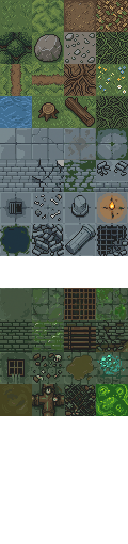
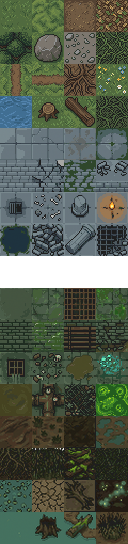
Add Swamp, a fourth map theme
New SwampTheme (owns rows 13-16 of map_tiles.png, the next free block
after Sewer's 9-12), added to dungeon_theme_pool() and ThemeChoice (the
Debug ThemeSelect menu).

Art assembled from two PixelLab generation batches rather than one clean
round: the first batch had a moss-less wall texture and a flat,
textureless water tile; a sharpened prompt fixed both but regressed two
different cells that weren't touched (dark soil came back ~90%
near-black, driftwood lost its shape entirely). Resolved as a hybrid -
14 of 16 cells from the second batch, 2 pulled from the first where they
were actually correct - rather than a third generation round. Same
near-black-pixel flooring (30/channel minimum) and grid-line-border
cropping every prior theme's art has needed. Full history in
docs/Map_Tile_Theme_Guide.md's own Swamp entry.

Not wired into the moat/obstacle placement system Forest and Sewer have
- that's its own scoped follow-up, not bundled into adding the theme.

Fixed two stale "three themes" references (title.rs's ThemeSelect
screen text, turn_state.rs's own doc comment) now that there are four
non-Random choices.

Verified with a throwaway test (valid tile variants, present in the
theme pool - removed after confirming) plus both headless
class-survivability simulations (consistent with every prior run - the
theme pool growing from 3 to 4 entries is cosmetic only).

Changed region(s): [[0.0, 0.75, 1.0, 1.0]]

diff --git a/ever_space_rrpg/src/map_builder/themes.rs b/ever_space_rrpg/src/map_builder/themes.rs
@@ -293,3 +293,64 @@ impl SewerTheme {
         Box::new(Self {})
     }
 }
+
+pub struct SwampTheme {}
+
+impl MapTheme for SwampTheme {
+    fn tile_to_render(&self, tile_type: TileType) -> FontCharType {
+        match tile_type {
+            TileType::Floor => to_cp437('~'),
+            TileType::Wall => to_cp437('&'),
+            TileType::Exit => to_cp437('>'),
+            TileType::Counter => to_cp437('▄'),
+            // Not placed by any map generator yet - see TileType::Water's
+            // own doc comment. Only reached if that ever changes before
+            // this theme has a real tile_row, or for a theme that never
+            // gets one.
+            TileType::Water => to_cp437('~'),
+        }
+    }
+
+    fn floor_color(&self) -> RGB {
+        // Murky olive-brown mud.
+        RGB::from_f32(0.18, 0.17, 0.12)
+    }
+
+    fn wall_color(&self) -> RGB {
+        // Dark tangled root brown.
+        RGB::from_f32(0.22, 0.18, 0.12)
+    }
+
+    fn battle_scenery(&self) -> BattleScenery {
+        BattleScenery::ScatteredTrees
+    }
+
+    /// Swamp is the fourth theme migrated to real tile art (2026-09-13) -
+    /// owns rows 13-16 of resources/map_tiles.png, the next free 4-row
+    /// block after Sewer's 9-12 (no forbidden-row gotcha to dodge here -
+    /// that was specifically row 8). See docs/Map_Tile_Theme_Guide.md
+    /// for the full row-by-row breakdown, including the two-batch
+    /// generation history (a hybrid of both - two cells pulled from the
+    /// first batch where the second batch regressed).
+    fn tile_row(&self) -> Option<u16> {
+        Some(13)
+    }
+
+    /// Cells 9-10 (Lily-pad covered patch, Cracked dry-mud patch) read as
+    /// spreadable ground cover - left on the default Patch. Cells 11-12
+    /// (Fallen dead tree/driftwood, Glowing marsh-gas/firefly patch) are
+    /// discrete point fixtures - Scatter, same reasoning as every other
+    /// theme's own themed-floor split.
+    fn floor_variant_style(&self, variant: u8) -> VariantStyle {
+        match variant {
+            6 | 7 => VariantStyle::Scatter,
+            _ => VariantStyle::Patch,
+        }
+    }
+}
+
+impl SwampTheme {
+    pub fn new() -> Box<dyn MapTheme> {
+        Box::new(Self {})
+    }
+}

diff --git a/ever_space_rrpg/src/map_builder/mod.rs b/ever_space_rrpg/src/map_builder/mod.rs
@@ -47,14 +47,16 @@ pub enum ThemeChoice {
     Forest,
     Dungeon,
     Sewer,
+    Swamp,
 }
 
 impl ThemeChoice {
-    pub const ALL: [ThemeChoice; 4] = [
+    pub const ALL: [ThemeChoice; 5] = [
         ThemeChoice::Random,
         ThemeChoice::Forest,
         ThemeChoice::Dungeon,
         ThemeChoice::Sewer,
+        ThemeChoice::Swamp,
     ];
 
     pub fn label(self) -> &'static str {
@@ -63,6 +65,7 @@ impl ThemeChoice {
             ThemeChoice::Forest => "Forest",
             ThemeChoice::Dungeon => "Dungeon",
             ThemeChoice::Sewer => "Sewer",
+            ThemeChoice::Swamp => "Swamp",
         }
     }
 
@@ -74,6 +77,7 @@ impl ThemeChoice {
             ThemeChoice::Forest => Some(ForestTheme::new()),
             ThemeChoice::Dungeon => Some(DungeonTheme::new()),
             ThemeChoice::Sewer => Some(SewerTheme::new()),
+            ThemeChoice::Swamp => Some(SwampTheme::new()),
         }
     }
 }
@@ -317,7 +321,12 @@ pub enum VariantStyle {
 /// Sewer became the third theme and hand-updating a hardcoded range for
 /// every new one stopped being worth it).
 fn dungeon_theme_pool() -> Vec<Box<dyn MapTheme>> {
-    vec![DungeonTheme::new(), ForestTheme::new(), SewerTheme::new()]
+    vec![
+        DungeonTheme::new(),
+        ForestTheme::new(),
+        SewerTheme::new(),
+        SwampTheme::new(),
+    ]
 }
 
 /// Columns on `resources/map_tiles.png` - every theme's 4-row block uses

diff --git a/ever_space_rrpg/src/turn_state.rs b/ever_space_rrpg/src/turn_state.rs
@@ -7,7 +7,7 @@ pub enum TurnState {
     AdventureSelect,
     ClassSelect,
     /// Debug-class-only, Dungeon-Crawl-only (added 2026-09-13): lets the
-    /// user force which `MapTheme` (Forest/Dungeon/Sewer, or Random for
+    /// user force which `MapTheme` (Forest/Dungeon/Sewer/Swamp, or Random for
     /// the normal per-floor roll) every floor of the upcoming run uses,
     /// instead of re-rolling randomly each floor - a testing convenience
     /// so a specific theme's Victory/Defeat art (see components::

diff --git a/ever_space_rrpg/src/screens/title.rs b/ever_space_rrpg/src/screens/title.rs
@@ -540,7 +540,7 @@ impl State {
             72,
             WHITE,
             BLACK,
-            "Random keeps today's normal per-floor behavior; the other three",
+            "Random keeps today's normal per-floor behavior; the other four",
         );
         ctx.print_color_centered(
             75,

diff --git a/docs/Map_Tile_Theme_Guide.md b/docs/Map_Tile_Theme_Guide.md
@@ -7,14 +7,18 @@ implementation) - the map-rendering counterpart to
 icons instead. Read this FIRST before generating a new theme's tileset
 or touching `map_builder/themes.rs`.
 
-**Status as of 2026-09-08: implemented and shipped for three themes -
-Forest, Dungeon, Sewer**, randomly picked per generated dungeon level via
-`map_builder::dungeon_theme_pool()` (Battle Arena's own shop/wave maps
-still always use Forest specifically, unchanged). Real per-tile textures
-are live in the dungeon-crawl view - verified with real screenshots, both
-camera-at-rest and mid-glide/panning, and again after adding Dungeon/
-Sewer. `TileType::Water` exists in the data model but isn't placed by
-any generator yet (see "Deferred to a later design pass" below).
+**Status as of 2026-09-13: implemented and shipped for four themes -
+Forest, Dungeon, Sewer, Swamp**, randomly picked per generated dungeon
+level via `map_builder::dungeon_theme_pool()` (Battle Arena's own shop/
+wave maps still always use Forest specifically, unchanged). Real
+per-tile textures are live in the dungeon-crawl view - verified with
+real screenshots, both camera-at-rest and mid-glide/panning, and again
+after adding Dungeon/Sewer/Swamp. `TileType::Water` is real, placed data
+now (Forest's Fortress moat, Sewer's Fortress/Chest Room moats and
+isolated patches - see the map-gen refactor writeup in docs/ideas.md's
+Done section); Swamp's own Water cell (13) isn't wired into any
+placement yet, same "exists in the atlas, not yet used" state Dungeon's
+own Water cell has always been in.
 
 ---
 
@@ -445,14 +449,11 @@ this round (the session's input-automation driver got unreliable, not
 a sign of an actual code issue) - worth a quick visual sanity check next
 session if it hasn't come up in normal play by then.
 
-**Swamp** (proposed 2026-09-13, NOT yet generated - the user asked for a
-prompt list to run through the generator themselves; drafted here rather
-than only in chat so it isn't lost). Mood: murky, waterlogged marshland -
-decaying vegetation, thick humid air. Palette: muddy brown, dark olive
-green, murky teal-green - avoid pure black/near-black (the standard
-floor-near-black gotcha) and overly saturated/clean blues (should read
-swampy, not tropical). Would own rows 13-16 (the next free 4-row block
-after Sewer's 9-12) once generated:
+**Swamp** (finalized 2026-09-13, owns rows 13-16 of `map_tiles.png` - the
+next free 4-row block after Sewer's 9-12, no forbidden-row gotcha to
+dodge since that was specifically row 8). Mood: murky, waterlogged
+marshland - decaying vegetation, thick humid air. Palette: muddy brown,
+dark olive green, murky teal-green:
 1. Wet mud
 2. Marsh grass tufts
 3. Damp peat / dark soil
@@ -465,8 +466,36 @@ after Sewer's 9-12) once generated:
 10. Cracked dry-mud patch - Patch
 11. Fallen dead tree / driftwood - Scatter
 12. Glowing marsh-gas / firefly patch - Scatter
-13. Murky swamp water (the liquid/moat cell - would map to `water_
-    variants`/`fortress_moat_variant` the same way Forest's Water does)
+13. Murky swamp water (not yet wired into any placement - see `TileType::
+    Water`'s own status note above)
 14. Sunken, rotted stump
 15. Half-submerged log
 16. Thick reed/cattail cluster
+
+**Real two-batch generation history, worth keeping for the next theme**:
+the first batch came back solid on 14 of 16 cells but two real misses -
+cell 7 ("Moss-covered rotted log wall") showed plain wood with no visible
+moss, and cell 13 ("Murky swamp water") was a completely flat solid
+color with no texture at all. A sharpened prompt (explicit "visible
+bright-green moss patches," "subtle rippling water texture, not a flat
+solid color," plus a general "avoid very deep near-black shadows" note)
+fixed both - but introduced two NEW regressions in the second batch: cell
+3 ("Damp peat / dark soil") came back ~90% near-black (essentially
+unusable), and cell 11 ("Fallen dead tree / driftwood") lost its
+driftwood shape entirely, rendering as a generic cracked-ground texture
+almost identical to cell 10. Resolved without a third generation round -
+built a hybrid sheet, taking 14 of 16 cells from the second (improved)
+batch but pulling cells 3 and 11 specifically from the first batch, where
+they were correct. **Lesson for next time**: a prompt tweak aimed at
+specific cells can regress OTHER cells that weren't touched at all -
+worth a full 16-cell recheck after any revision, not just the cells the
+prompt change targeted.
+
+Both batches also had the same baked-in grid-line border artifact this
+project hit before (131x131 actual pixels for a nominal 128x128/4x4
+grid, ~1-3px black dividers between cells) - cropped to the same content
+bounds `[(1,31),(34,64),(67,97),(100,130)]` already documented above, no
+new investigation needed. Near-black pixels (several wall/themed-floor
+cells ran 25-45% near-black even after the "avoid deep shadows" prompt
+note) were floored to a 30/channel minimum before compositing, same
+standard fix every prior theme's art needed.

diff --git a/docs/journal.md b/docs/journal.md
@@ -4420,3 +4420,19 @@ Moved the horizontal/vertical decision from render time into generation time, wh
 <br />
 
 Verified with a throwaway test (one connected line, every tile's variant matching its own actual neighbor connectivity, across 30 generations - removed after confirming) plus both headless simulations (consistent with every prior run). This should be the actual end of this saga - no more rendering theories to chase, since there's no runtime rotation left to have a theory about.
+
+## A fourth theme: Swamp, generated in two rounds and merged into one
+
+While still on the map-gen refactor branch, the user asked to add another theme - the Swamp one drafted earlier this same day (a 16-cell prompt list, saved but never generated). Handed over a plain-text, copy-friendly version in a code block after the first formatted version didn't paste cleanly.
+<br />
+
+**First batch**: 14 of 16 cells came back solid, matching the prompt closely. Two real misses: cell 7 ("Moss-covered rotted log wall") showed plain wood with no visible moss at all, and cell 13 ("Murky swamp water") was a completely flat solid color, no texture. Also confirmed the same grid-line-border artifact this project's very first Forest batch had (131x131 actual pixels for a nominal 4x4/128x128 grid) - already had the exact crop bounds documented from that session, no new investigation needed. No watermarks in any corner.
+<br />
+
+**Second batch**, using a sharpened prompt (explicit "visible bright-green moss," "subtle rippling water texture, not flat," plus a general "avoid very deep near-black shadows" note): fixed all three requested things - cell 7 now shows real moss, cell 13 has real ripple texture, and cell 16 ("Thick reed/cattail cluster") reads as tall reed stalks instead of a round bush shape it had drifted into. But the revision also broke two DIFFERENT cells that weren't touched at all: cell 3 ("Damp peat / dark soil") came back ~90% near-black, essentially a solid black square, and cell 11 ("Fallen dead tree / driftwood") lost its driftwood shape entirely, rendering as a generic cracked-ground texture nearly identical to cell 10.
+<br />
+
+Rather than a third generation round, built a hybrid: 14 of 16 cells from the second (improved) batch, with cells 3 and 11 specifically pulled from the first batch instead, where they were correct. Composited with the same near-black-flooring treatment (30/channel minimum) every prior theme's art has needed, verified via a per-cell byte diff that only the intended rows changed. New `SwampTheme` impl in `themes.rs` follows the exact same shape as Forest/Dungeon/Sewer - `tile_row(Some(13))`, `floor_variant_style` for the Patch/Scatter split on cells 9-12, added to both `dungeon_theme_pool()` and `ThemeChoice` (the Debug ThemeSelect menu, which turned out to already be built to scale with `ThemeChoice::ALL`'s own length rather than a hardcoded count - only a stale "the other three" UI string needed updating to "the other four"). Deliberately NOT wired into the moat/obstacle placement system Forest and Sewer have - that's real design work of its own (which liquid look, which prefab, sparse or deterministic), not something to bolt on unprompted while adding the theme itself.
+<br />
+
+Verified with a throwaway test (a real Swamp map generates valid in-range tile variants, `dungeon_theme_pool()` actually includes it) plus both headless simulations (consistent with every prior run - the theme pool going from 3 to 4 entries doesn't touch difficulty, only cosmetic terrain). **Worth remembering for the next theme**: a prompt revision aimed at fixing specific cells can regress OTHER cells that were never touched - always do a full 16-cell recheck after any revision, not just the cells the change targeted.

diff --git a/docs/ideas.md b/docs/ideas.md
@@ -937,14 +937,15 @@ that a full new animation batch is being assembled.
   was ever a priority beyond the original collision fix, but all four
   ended up finalized anyway.
 
-## Map tile themes — real per-tile textures, Forest/Dungeon/Sewer, and an easy-to-extend theme pool
+## Map tile themes — real per-tile textures, Forest/Dungeon/Sewer/Swamp, and an easy-to-extend theme pool
 
 The old single-colored-glyph-per-`TileType` map rendering (`.`/`#` for
-Dungeon, `;`/`"` for Forest) is gone for three themes so far - real
-32x32 pixel-art tiles, randomly picked per generated level via
-`map_builder::dungeon_theme_pool()` (adding a fourth theme is one line
-there, not a hand-counted range). Full template/row-mapping reference,
-every generator gotcha, and the generation algorithm's own reasoning
+Dungeon, `;`/`"` for Forest) is gone for four themes now - real 32x32
+pixel-art tiles, randomly picked per generated level via `map_builder::
+dungeon_theme_pool()` (adding a theme is one line there, not a
+hand-counted range - confirmed again adding Swamp, 2026-09-13). Full
+template/row-mapping reference, every generator gotcha, and the
+generation algorithm's own reasoning
 live in `docs/Map_Tile_Theme_Guide.md` - the map-rendering counterpart
 to `Dungeon_Font_Glyph_to_Cell_Map.md`.
 
@@ -972,6 +973,17 @@ to `Dungeon_Font_Glyph_to_Cell_Map.md`.
 - **`TileType::Water`** is now real, placed data (2026-09-13, see "Map-
   gen refactor" below) - blocking like `Counter`, but deliberately NOT
   opaque, so a moat still lets the player see what's on the other side.
+- **Swamp, the fourth theme** (2026-09-13) - owns rows 13-16, the next
+  free block after Sewer's 9-12. Two real regressions during its own
+  two-batch generation (a moss-less wall texture and a flat water tile
+  in batch one; a near-solid-black soil cell and a lost driftwood shape
+  in batch two, after a prompt revision meant to fix the first two) got
+  resolved as a hybrid of both batches rather than a third generation
+  round - full blow-by-blow in `docs/Map_Tile_Theme_Guide.md`'s own
+  Swamp entry. Not yet wired into the moat/obstacle placement system
+  Forest and Sewer have (`water_variants`/`prefab_moat_variant`/etc. -
+  see "Map-gen refactor" below) - its own Water cell (13) sits unused
+  for now, the same state Dungeon's has always been in.
 
 ## Map-gen refactor — `map_builder`'s single-tile-set assumptions, three phases
 
